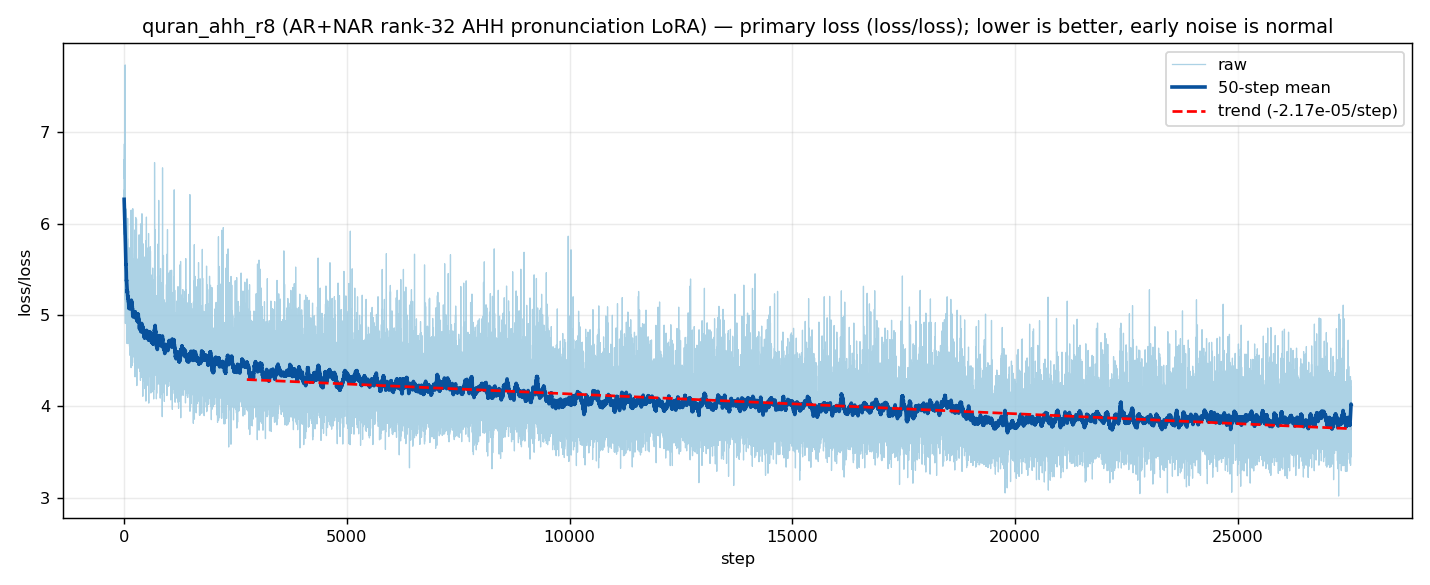
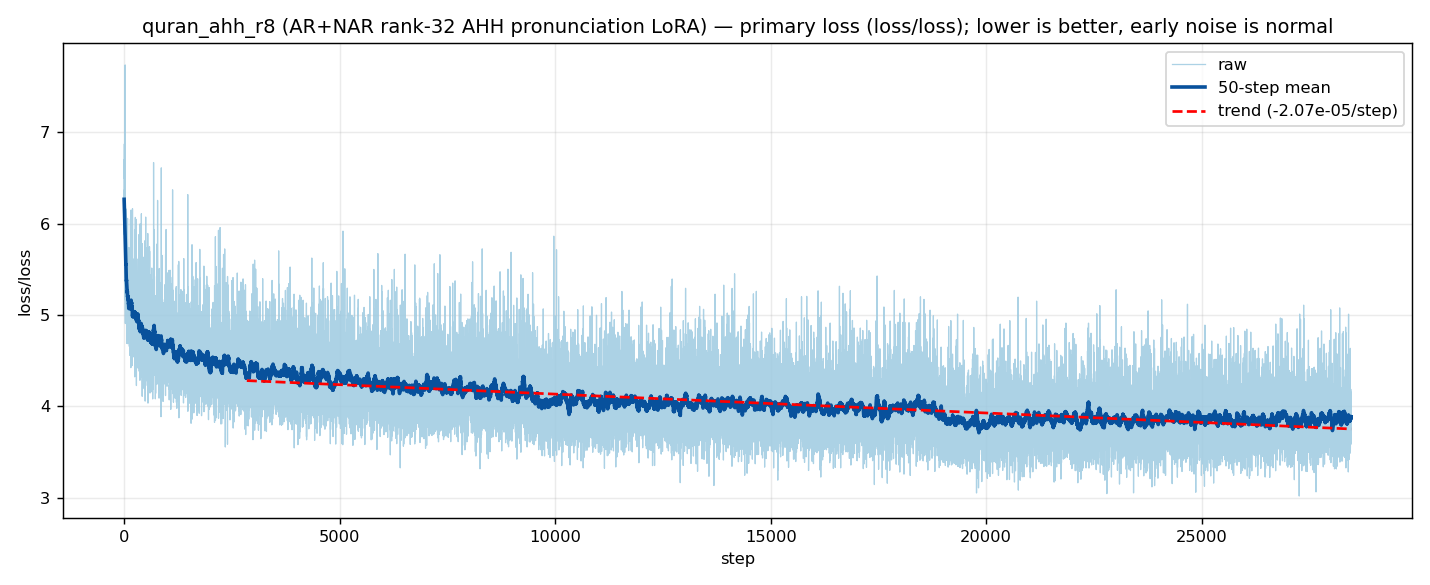
quran_ahh_r8: training COMPLETE (28,467/28,467); final analysis + T4 handoff
- run.py self-stopped clean; final adapter+optimizer banked in GCS (sizes match)
- ANALYSIS.md finalized (plateau after ~19.5k; full bins); current.md -> COMPLETE
- QURAN_AHH_RESUME_PLAN.md: add Phase 3b (2:255 epoch test: c9000/c19500/final)

diff --git a/TRAINING_ANALYSIS/quran_ahh_r8_rank32/ANALYSIS.md b/TRAINING_ANALYSIS/quran_ahh_r8_rank32/ANALYSIS.md
@@ -1,9 +1,9 @@
 # Training analysis — `quran_ahh_r8` **revised** (AR+NAR, rank 32, no KL)
 
-**LIVE SNAPSHOT** — captured **2026-10-06 ~04:13 UTC (07:13 Bahrain)** at **step 27,543 / 28,467
-(96.8%)**. The run is still training (pid 37073; resumed `2026-10-06T01:09:51` from ckpt 19,500
-after the 2026-10-05 pause); final save imminent — this is *not* the final analysis. Charts produced
-by the parametrized `TRAINING_ANALYSIS/generate_plots.py`:
+**FINAL** — completed **2026-10-06 04:34 UTC (07:34 Bahrain)** at **step 28,467 / 28,467 (100 %)**.
+`run.py` self-stopped cleanly (no traceback) after resuming `2026-10-06T01:09:51` from ckpt 19,500
+(post-2026-10-05 pause). Final adapter + `optimizer.pt` banked in GCS. Charts produced by the
+parametrized `TRAINING_ANALYSIS/generate_plots.py`:
 
 ```bash
 cd /content/maqamrock-yue2-lora-finetuning
@@ -35,13 +35,13 @@ python TRAINING_ANALYSIS/generate_plots.py \
 | Dataset | `/content/quran_ahh_dataset/train` — **9,489 pairs** (AHH filtered, 3 reciters, single caption/clip, 50/50 simple/uthmani stratified); `steps: 28467` = **3 epochs** |
 | GPU | Colab **L4** (23,034 MiB) |
 | Caching | banked `_latent_cache.tar` — launch pass **< 1 s** (cache HIT, no re-encode) |
-| Steps done | **27,543 / 28,467 (96.8%)** at snapshot |
-| Step time | **median 1.231 s** (p10 1.206 / p90 1.632; max 5.754) → ~**0.71 steps/s** (0.71 recent) |
+| Steps done | **28,467 / 28,467 (100 %)** — complete |
+| Step time | **median 1.231 s** (p10 1.206 / p90 1.632; max 5.754) → ~**0.72 steps/s** (0.73 recent) |
 | Save cadence | every **1500** steps (~34 min) |
 | Samples | **none** — grey verticals are checkpoint saves |
-| Checkpoints | `_000001500 … _000027000` (**18**) + `optimizer.pt` (step 27000) — local + GCS (verified); next = final un-suffixed save at **28,467** |
+| Checkpoints | `_000001500 … _000027000` (**18**) + **final un-suffixed** `quran_ahh_r8.safetensors` + `optimizer.pt` (step 28,467) — local + GCS (verified) |
 | GPU (resumed window) | mem p50 **8,730** / peak **9,152** MiB of 23,034; util p50 **49 %**, p90 100 %; temp p50 76 / max 80 °C; power p50 65 / max 76 W (limit 72) |
-| ETA | **~22 min** at the recent rate → completion ~**04:35 UTC / 07:35 Bahrain** |
+| Completion | **28,467 @ 04:34 UTC**; clean self-stop; final adapter + optimizer in GCS |
 | Health | clean — no tracebacks/OOM; VRAM flat; steady ~34 min save cadence |
 
 ## Charts
@@ -83,10 +83,11 @@ python TRAINING_ANALYSIS/generate_plots.py \
 | 24001–25000 | 3.8682 | 3.2188 | 0.6494 |
 | 25001–26000 | 3.8555 | 3.2103 | 0.6452 |
 | 26001–27000 | 3.8516 | 3.2111 | 0.6406 |
-| 27001–27543 | 3.8365 | 3.2057 | 0.6308 |
+| 27001–28000 | 3.8496 | 3.2180 | 0.6316 |
+| 28001–28466 | 3.8593 | 3.2095 | 0.6498 |
 
-First-50 vs last-50 means: `loss/loss` **5.8409 → 3.8020** (−2.039), `loss/ar_ce`
-**5.0275 → 3.1868** (−1.841), `additional_model_loss` identical. `loss/loss` minimum
+First-50 vs last-50 means: `loss/loss` **5.8409 → 3.8405** (−2.000), `loss/ar_ce`
+**5.0275 → 3.1907** (−1.837), `additional_model_loss` identical. `loss/loss` minimum
 **3.0168 @ step 27262**.
 
 Per-checkpoint 500-step windows (`loss/loss` mean) — the "is later training better?" read:
@@ -95,6 +96,9 @@ Per-checkpoint 500-step windows (`loss/loss` mean) — the "is later training be
 |---|---|---|---|---|---|---|---|---|---|
 | `loss/loss` (next 500) | 4.0024 | 3.9907 | 4.0014 | **3.8073** | 3.8653 | 3.8593 | 3.8783 | 3.8523 | 3.8391 |
 
+Final checkpoint (last 500 before 28,467): `loss/loss` **3.8631** — no late gain; the run very
+clearly plateaued after ~19.5k.
+
 ## Observations / flags
 
 1. **Only 4 metric keys**; `additional_model_loss` is byte-identical to `loss/ar_ce` (a duplicate
@@ -102,11 +106,11 @@ Per-checkpoint 500-step windows (`loss/loss` mean) — the "is later training be
    `loss/loss − ar_ce` ≈ **0.65–0.68** (0.776 → 0.674 over the run). Both experts train, but the
    log gives no clean separate read on the NAR.
 2. **`loss/ar_ce` has plateaued.** It drifted to ~3.32 by 17k, dropped to **3.1780**
-   (19001–20000), and has held at **~3.19–3.22** ever since — ~8k steps flat (a small step-down at
-   the 19,500 resume, then no further descent). A single late min (2.435 @ 27262) is noise.
+   (19001–20000), and has held at **~3.19–3.22** to the end — **~8.5k steps flat** (a small
+   step-down at the 19,500 resume, then no further descent). A single late min (2.435 @ 27262) is noise.
 3. **Later checkpoints improved, then plateaued.** Next-500 means: 4.0024 @15k → **3.8073 @19.5k**
-   → 3.8555 @25.5k → 3.8391 @27k. The step-down coincides with the 19.5k resume; since then it is
-   flat — whether the extra steps help is a listening question, not a loss one.
+   → 3.8555 @25.5k → 3.8391 @27k; final window 3.8631. The step-down coincides with the 19.5k
+   resume; since then it is flat — whether the extra steps help is a listening question, not a loss one.
 4. **`loss/loss` is AR-dominated** — not a quality metric; the held-out free-run is the signal.
 5. **The L4 is not the bottleneck.** util p50 **49 %** (p90 100 %), ~8.7 GB of 23 GB — data/CPU-bound;
    power saturates at the 72 W limit.
@@ -127,12 +131,13 @@ Adapters banked: `…/quran_ahh_r8_rank32/convert/{c4500,c7500,c10500,c16500}/`.
 ## Checkpoints (on disk + GCS)
 
 `/content/ai-toolkit/output/quran_ahh_r8/`: `quran_ahh_r8_000001500 … _000027000` (18 ×
-117,500,848 B ≈ 112 MiB) + `optimizer.pt` (step 27000) + `loss_log.db`. GCS mirror verified.
-The final un-suffixed `quran_ahh_r8.safetensors` + `optimizer.pt` land at **28,467**.
+117,500,848 B ≈ 112 MiB) + the **final un-suffixed** `quran_ahh_r8.safetensors` (117,500,848 B,
+step 28,467) + `optimizer.pt` (step 28,467) + `loss_log.db`. GCS mirror verified — local and GCS
+sizes match (adapter 117,500,848 B; optimizer 119,807,781 B).
 
 ## Caveats
 
-- **Mid-run snapshot** — re-run the command above for the final charts/bins.
+- **Final** — training complete at 28,467; these charts/bins are the full run.
 - **No validation split / no samples**; the listening read is single-aya, single-listen — a human
   blind gate (`ab-blind-eval`) is still required before any merge.
 - **Saved adapters are EMA weights** (decay 0.999).
@@ -141,7 +146,7 @@ The final un-suffixed `quran_ahh_r8.safetensors` + `optimizer.pt` land at **28,4
 
 ## Next steps
 
-- Finish to **28,467** (~07:35 Bahrain; ~22 min out at the last check).
-- **c10500 vs c16500 T4 probe** (round 2); consider a late arm (`c27000`/final) — the plateau makes
-  "later = better" a listening question.
-- Human blind gate (`ab-blind-eval`) before any merge.
+- **Phase 3b (T4):** convert `c9000`, `c19500`, and the final adapter; render all three on
+  **Ayat al-Kursi (2:255)**, fixed seed; then blind-A/B.
+- **Phase 5:** rename `quran_ahh_r8` → `quran_ahh_r32`; docs-reconciler; human blind gate
+  (`ab-blind-eval`) before any merge.

diff --git a/agent_notes/current.md b/agent_notes/current.md
@@ -1,40 +1,39 @@
 # current
 
 > **Session plan:** [`docs/QURAN_AHH_RESUME_PLAN.md`](../docs/QURAN_AHH_RESUME_PLAN.md)
-> — resume training → T4 round-2 probe → finish run → rename.
+> — resume training → T4 probe → finish run → rename.
+> **This file is a handoff copy surface, not a source of truth** — re-derive from live artifacts.
 
-## State @ 2026-10-06 01:15 UTC — **TRAINING RUNNING** (resumed @ step 19,500)
+## State @ 2026-10-06 04:36 UTC — **TRAINING COMPLETE** (28,467/28,467)
 
-Fresh Colab VM; `setup.sh --training` done 00:57 UTC. Branch `pron-lora-long-aya` @ `8440f64`.
-Config `config/quran_ahh_r8.yml` unchanged (rank 32/32, AR+NAR, `ar_kl_weight 0.0`, steps 28467) —
-authority. `output/quran_ahh_r8/` + `_latent_cache` restored; sidecars up (`gpu_logger` 23442,
-`backup_to_gcp --run-name quran_ahh_r8` 23443).
+`quran_ahh_r8` (revised: AR+NAR, **rank 32**, `ar_kl_weight 0.0`, `steps 28467` = 3 epochs)
+finished **cleanly** on the Colab L4 — `run.py` self-stopped, no traceback. Resumed
+`2026-10-06T01:09:51` from ckpt 19,500; final step reached 04:34 UTC.
 
-**Resume verified** (`run.py` pid 37073, started by agent on user's explicit instruction):
-```
-#### IMPORTANT RESUMING FROM /content/ai-toolkit/output/quran_ahh_r8/quran_ahh_r8_000019500.safetensors ####
-Found step 19500 in metadata, starting from there
-Loading optimizer state from /content/ai-toolkit/output/quran_ahh_r8/optimizer.pt
-```
-Stepping past 19500 with no crash (was at step ~19,639; loss ~4.2; ~1.28 s/it).
+Final artifacts (local `output/quran_ahh_r8/` **and** GCS, sizes match):
+- `quran_ahh_r8.safetensors` — 117,500,848 B (final, un-suffixed) → GCS `04:35:30`
+- `optimizer.pt` — 119,807,781 B (step 28,467) → GCS `04:35:30`
+- 18 periodic ckpts `_000001500 … _000027000`; `loss_log.db` (28,466 steps logged).
+- Forced backup `backup_to_gcp.py --run-name quran_ahh_r8 --once` = **exit 0, 3/3 folders**.
+  **Safe to disconnect / switch to T4.**
 
-### Two problems FIXED this session (in `docs/COMMAND_HANDOVER_GOTCHAS.md`)
-1. **Wrong resume point:** rsync re-created all ckpts with ~equal ctime → ai-toolkit's
-   newest-by-ctime pick chose `_000009000`. Fixed by `chmod 644 quran_ahh_r8_000019500.safetensors`.
-2. **Corrupt `loss_log.db`:** GCS backup captured a mid-checkpoint WAL db → every resume crashed
-   in `_prune_future_steps`. Rebuilt from the readable prefix (19,500 steps / 78,000 rows,
-   integrity `ok`) and swapped in. Corrupt original at `/tmp/loss_log_db_corrupt/`.
+Training analysis finalized: `TRAINING_ANALYSIS/quran_ahh_r8_rank32/ANALYSIS.md` (+5 PNGs).
+Loss plateaued hard after ~19.5k (`loss/ar_ce` ~3.19–3.22 for ~8.5k steps) — "later = better"
+is a listening question, not a loss one.
 
-## Next (agent, Phase 2)
-Monitor step/%, loss trend, VRAM, ckpt local-vs-GCS, sidecars. Saves every 1500 steps →
-`_21000` next (~04:37 UTC). Watch for the `_21000` save and confirm it lands in GCS.
+## Next — Phase 3b (T4, separate GPU)
+Convert **`c9000`** (≈epoch 1), **`c19500`** (≈epoch 2), and the **final** adapter; render all
+three on **Ayat al-Kursi (Quran 2:255)**, fixed seed; then blind-A/B (`ab-blind-eval`).
+Exact epoch ends 9489/18978/28467 don't land on saves; c9000/c19500 are the nearest.
+(T4 handover recipe: `docs/QURAN_AHH_RESUME_PLAN.md` Phase 3 / 3b.)
 
 ## Still open
-- Phase 3 T4 round-2 probe (`c10500` vs `c16500`) — separate GPU.
-- Phase 4 finalize at step 28,467 + bank final adapter/optimizer.
-- Phase 5 rename `quran_ahh_r8` → `quran_ahh_r32` + docs reconcile + blind eval.
-- Durable fixes: restore helper that fixes ckpt ctime; backup daemon that
+- Phase 3b epoch test above; round-2 `c10500` vs `c16500` also banked and untested.
+- Phase 5: rename `quran_ahh_r8` → `quran_ahh_r32`; docs-reconciler; blind gate before any merge.
+- Durable fixes (not yet done): restore helper that fixes ckpt ctime; backup daemon that
   `wal_checkpoint(TRUNCATE)`s `loss_log.db` before syncing.
 
-## Gotcha
-`run.py -l <log>` **appends** — verify resume with `grep 'Found step' <log> | tail -1`, not `-m1`.
+## Gotchas (see `docs/COMMAND_HANDOVER_GOTCHAS.md`)
+- `run.py -l <log>` **appends** — verify resume with `grep 'Found step' <log> | tail -1`, not `-m1`.
+- GCS restore randomizes ckpt ctime → auto-resume picks the wrong step; `chmod` (not `touch`) fixes it.
+- Backup can capture a mid-checkpoint WAL `loss_log.db` → crash in `_prune_future_steps`; repair by salvage.

diff --git a/docs/QURAN_AHH_RESUME_PLAN.md b/docs/QURAN_AHH_RESUME_PLAN.md
@@ -85,6 +85,20 @@ Record the user’s verdict in `TRAINING_ANALYSIS/quran_ahh_r8_rank32/ANALYSIS.m
 compare against `base_*` and round-1 `c7500_simple`. Never run GPU work on the L4 while training
 runs (one GPU); the T4 is separate.
 
+### Phase 3b — end-of-epoch test on Ayat al-Kursi (Quran 2:255)
+One checkpoint per epoch, on **2:255**, fixed seed, then blind-A/B. Approximate is fine: exact epoch
+ends (9,489 / 18,978 / 28,467) don’t land on saves (`save_every: 1500`), only the final does.
+
+| epoch | end step | test checkpoint |
+|---|---|---|
+| 1 | 9,489 | **`c9000`** (nearest; alt `c10500` = first after) |
+| 2 | 18,978 | **`c19500`** (nearest, banked; alt `c18000` = last before) |
+| 3 | 28,467 | **`final`** (exact, un-suffixed — convert as a 3rd arm) |
+
+Same T4 handover as Phase 3 (`INFERENCE/quran_pt_probe.py`), arms `c9000,c19500` + the converted
+final; the 2:255 caption is style-prefix + `[Verse]` + Uthmani text of 2:255. There is **no
+epoch-end save knob** in ai-toolkit — only `save_every`.
+
 ## Phase 4 — the moment training reaches step 28,467
 - Wait for the **final un-suffixed** `quran_ahh_r8.safetensors` (the no-step save) + `optimizer.pt`;
   confirm `run.py` self-stopped with **no traceback**.
